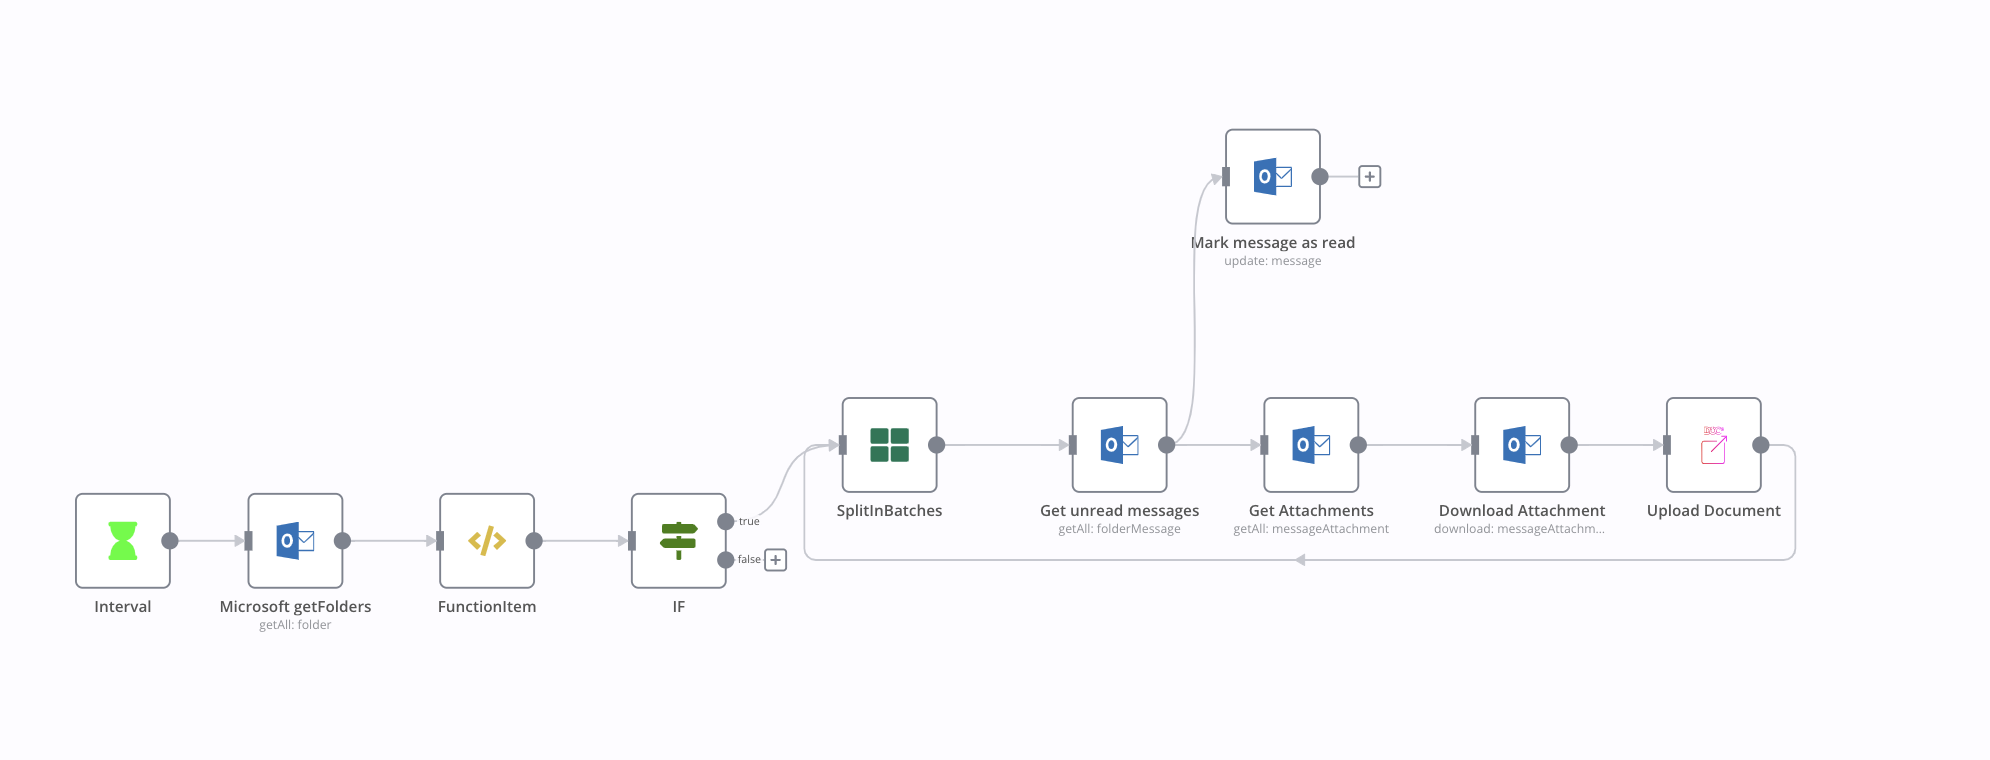
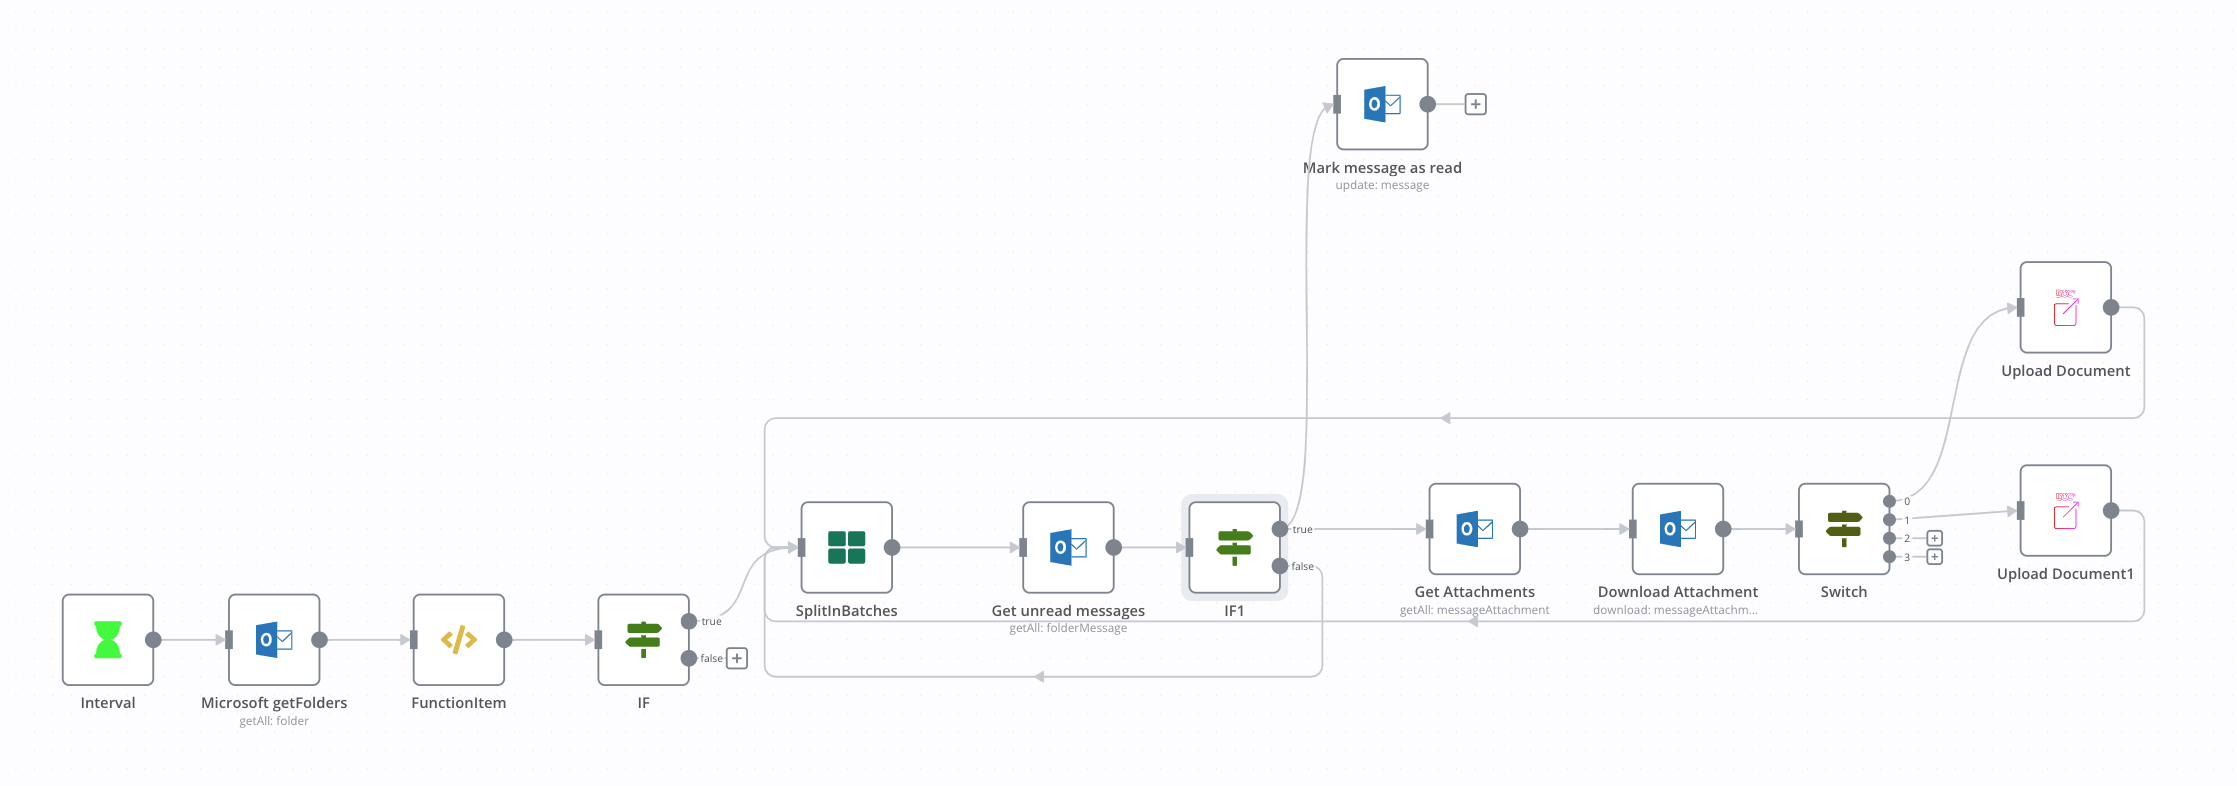
logicadjustments on Outlook WK

diff --git a/docs/example/outlook-import.md b/docs/example/outlook-import.md
@@ -42,7 +42,7 @@ With the following workflow you can upload email attachments from specific folde
 
 **4.** The `IF` node checks if the folders entered in step 3 exist. If they exist and the name matches, the export continues. If the entered folder name does not exist, nothing happens.
 
-**5.** The `SplitInBatches` node splits the list of Inboxes down to single pieces to ensure that every Inbox gets checked after another.
+**5.** The `SplitInBatches` node splits the list of folders down to single pieces to ensure that every Inbox gets checked after another.
 
    ![](/_images/workflows/workflows/WF-outlook-import-splitbatch.png)
 
@@ -50,51 +50,55 @@ With the following workflow you can upload email attachments from specific folde
 
    ![](/_images/workflows/workflows/WF-outlook-import-get-unread-messages.png)
 
-**7.** First of all, you have to add your Microsoft account.<ins>Please follow these steps:</ins><br>
-    7.1 Access the [Microsoft Application Registration Portal](https://aka.ms/appregistrations)<br>
-    7.2 Click on the `+ New registration` button
+**7.** The `IF` node will check if the `Get unread message` node found new messages and, if there are any, sends the information further.
+
+   ![](/_images/workflows/workflows/WF-outlook-import-get-unread-messages.png)
+
+**8.** First of all, you have to add your Microsoft account.<ins>Please follow these steps:</ins><br>
+    8.1 Access the [Microsoft Application Registration Portal](https://aka.ms/appregistrations)<br>
+    8.2 Click on the `+ New registration` button
         ![](/_images/workflows/workflows/WF-outlook-import-app-registrations-new.png)<br>
-    7.3 Enter a name for your app in the `Name` field.<br>
-    7.4 Select `Accounts in any organizational directory (Any Azure AD directory - Multitenant) and personal     Microsoft accounts (eg. Skype, Xbox)` under the **Supported account types** section.<br>
-    7.5 Copy the `OAuth Callback URL` provided in the Microsoft node credentials in Workflow².<br>
+    8.3 Enter a name for your app in the `Name` field.<br>
+    8.4 Select `Accounts in any organizational directory (Any Azure AD directory - Multitenant) and personal     Microsoft accounts (eg. Skype, Xbox)` under the **Supported account types** section.<br>
+    8.5 Copy the `OAuth Callback URL` provided in the Microsoft node credentials in Workflow².<br>
     ![](/_images/workflows/workflows/WF-outlook-import-OAuth-redirect-url.png)
-    7.6 Choose **Web** and paste it in the next field under the `Redirect URI (optional)` section.
+    8.6 Choose **Web** and paste it in the next field under the `Redirect URI (optional)` section.
         ![](/_images/workflows/workflows/WF-outlook-import-register-an-application.png)<br>
-    7.7 Click on the `Register` button at the bottom left.<br>
-    7.8 Copy the **Application (client) ID**.<br>
-    7.9 Paste the Application ID in the `Client ID` field in the Microsoft node credentials in Workflow².
+    8.7 Click on the `Register` button at the bottom left.<br>
+    8.8 Copy the **Application (client) ID**.<br>
+    8.9 Paste the Application ID in the `Client ID` field in the Microsoft node credentials in Workflow².
         ![](/_images/workflows/workflows/WF-outlook-import-microsoft-outlook-oauth2-api.png)<br>
-    7.10 On your Microsoft application page, click on **Certificates & secrets** in the left sidebar.
+    8.10 On your Microsoft application page, click on **Certificates & secrets** in the left sidebar.
         ![](/_images/workflows/workflows/WF-outlook-import-app-registrations-doc2.png)<br>
-    7.11 Click on the `+ New client secret` button under the **Client secrets** section.
+    8.11 Click on the `+ New client secret` button under the **Client secrets** section.
         ![](/_images/workflows/workflows/WF-outlook-import-certificates-and-secrets-new.png)<br>
-    7.12 Enter a description in the **Description** field.<br>
-    7.13 Click on the `Add` button.<br>
-    7.14 Copy the displayed secret under the **Value** column.<br>
+    8.12 Enter a description in the **Description** field.<br>
+	8.13 Click on the `Add` button.<br>
+    8.14 Copy the displayed secret under the **Value** column.<br>
         ![](/_images/workflows/workflows/WF-outlook-import-certificates-and-secrets-value.png)<br>
-    7.15 Paste the secret in the **Client Secret** field in the Microsoft node credentials in Workflow².
+    8.15 Paste the secret in the **Client Secret** field in the Microsoft node credentials in Workflow².
         ![](/_images/workflows/workflows/WF-outlook-import-microsoft-outlook-oauth2-api.png)<br>
-    7.16 Click on the button in the OAuth section to connect a Microsoft account to Workflow².<br>
-    7.17 Login to your Microsoft account and allow the app to access your info.<br>
-    7.18 Click on the `Save` button in the Microsoft node credentials in DOC² to save your credentials.<br>
+    8.16 Click on the button in the OAuth section to connect a Microsoft account to Workflow².<br>
+    8.17 Login to your Microsoft account and allow the app to access your info.<br>
+    8.18 Click on the `Save` button in the Microsoft node credentials in DOC² to save your credentials.<br>
 
    Now the node is going to check for new unread emails that are in the folder from Step 2.
 
-**8.** The `Get Attachments` node will extract all the attachments from the emails. First, you have to select the Microsoft account configured in step 3.1<br>
+**9.** The `Get Attachments` node will extract all the attachments from the emails. First, you have to select the Microsoft account configured in step 3.1<br>
 
    ![](/_images/workflows/workflows/WF-outlook-import-get-attachments.png)
 
-**9.** The `Mark message as read` node marks the emails that were checked in the steps above as read<br>
+**10.** The `Mark message as read` node marks the emails that were checked in the steps above as read<br>
    ![](/_images/workflows/workflows/WF-outlook-import-mark-message-as-read.png)<br>
-**10.** The `Download Attachments` node downloads the attachments from the emails in a temporary directory as a binary file<br>
+**11.** The `Download Attachments` node downloads the attachments from the emails in a temporary directory as a binary file<br>
    ![](/_images/workflows/workflows/WF-outlook-import-download-attachment.png)<br>
 
-**11.** The `Upload Document` node uploads the saved attachments to DOC². You just have to specify what inbox, in this case 101_Polydocs and to what sub-organization it is supposed to be uploaded.<br>
+**12.** The `Upload Document` node uploads the saved attachments to DOC². You just have to specify what inbox, in this case 101_Polydocs and to what sub-organization it is supposed to be uploaded.<br>
 
 ![](/_images/workflows/workflows/WF-outlook-import-Doc-Upload.png)<br>
 
 :fontawesome-solid-triangle-exclamation:{ style="color: #EE0F0F" }
-**12.** Add the classification rules in DOC² so that the upload node knows where to upload the documents.
+**13.** Add the classification rules in DOC² so that the upload node knows where to upload the documents.
 
 You can find this in the `Settings` under the menu item **Classification and Extraction** in the subitem `Document Processing`.
 
